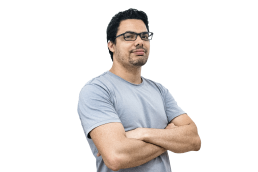
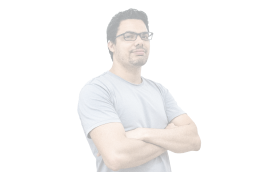
General adjustments

Changed region(s): [[0.2791, 0.0291, 0.8062, 1.0]]

diff --git a/src/components/header/index.tsx b/src/components/header/index.tsx
@@ -1,6 +1,4 @@
 import styles from "./header.module.css";
-import avatar from "../../app/assets/images/Epic1.png";
-import Image from "next/image";
 import BtnMenu from "../btnMenu";
 import { HeaderProps } from "@/types";
 
@@ -8,21 +6,11 @@ const Header = ({ toggleSidebar }: HeaderProps) => {
     return (
         <header className={styles.containerHeader}>
             <div className={styles.containermenu}><BtnMenu toggleSidebar={toggleSidebar} /></div>
-            <div className={styles.containerInfo}>
-                <div className={styles.containerText}>
-                    <h3 className={styles.textHi}>¡Hola!</h3>
-                    <h3 className={styles.textName}>Soy Johan Cortes</h3>
-                    <h4 className={styles.textSubTitle}>Desarrollador Web / App</h4>
-                    <h4 className={styles.textSubTitle}>Fullstack</h4>
-                </div>
-                <div className={styles.containerImage}>
-                    <Image
-                        src={avatar}
-                        alt="Photo perfil"
-                        title="Johan Cortes"
-                        className={styles.image}
-                    />
-                </div>
+            <div className={styles.containerText}>
+                <h3 className={styles.textHi}>¡Hola!</h3>
+                <h3 className={styles.textName}>Soy Johan Cortes</h3>
+                <h4 className={styles.textSubTitle}>Desarrollador Web / App</h4>
+                <h4 className={styles.textSubTitle}>Fullstack</h4>
             </div>
         </header>
     );

diff --git a/src/components/sidebarMenu/index.tsx b/src/components/sidebarMenu/index.tsx
@@ -9,30 +9,35 @@ const items = [
     {
         id: "001",
         icon: <FiClipboard size={40} color="#f17d3e" />,
-        title: "Acerca de mi"
+        title: "Acerca de mi",
+        route: "/"
     },
     {
         id: "002",
         icon: <FiCodesandbox size={40} color="#f17d3e" />,
-        title: "Proyectos"
+        title: "Proyectos",
+        route: "/projects"
     },
     {
         id: "003",
         icon: <FiMonitor size={40} color="#f17d3e" />,
-        title: "Habilidades"
+        title: "Habilidades",
+        route: "/skills"
     },
     {
         id: "004",
         icon: <GoBook size={40} color="#f17d3e" />,
-        title: "Estudios"
+        title: "Estudios",
+        route: "/studies"
     },
     {
         id: "005",
         icon: <FiPhoneCall size={40} color="#f17d3e" />,
-        title: "Contacto"
+        title: "Contacto",
+        route: "/contact"
     }
 ]
-const SidebarMenu = ({ open, toggleSidebar }: SidebarMenuProps) => {
+const SidebarMenu = ({ toggleSidebar }: SidebarMenuProps) => {
     return <div className={styles.container}>
         <div className={styles.headerMenu}>
             <div className={styles.textName}>

diff --git a/src/components/header/header.module.css b/src/components/header/header.module.css
@@ -5,6 +5,10 @@
   flex-direction: column;
   border-bottom: 1px solid var(--color-shadows-primary);
   border-radius: 5px;
+  background-image: url("../../app/assets/images/Epic1.png");
+  background-repeat: no-repeat;
+  background-position: 150%;
+  background-size: contain;
 }
 
 .containermenu {
@@ -12,40 +16,29 @@
   display: flex;
   justify-content: flex-end;
   align-items: flex-end;
-  padding-right: 1rem;
-}
-
-.containerInfo {
-  height: 10.21rem;
-  display: flex;
+  padding-right: 1.5rem;
 }
 
 .containerText {
   display: flex;
   flex-direction: column;
   min-width: 12.5rem;
-  padding:1rem 0 0 3rem;
+  padding: 1rem 0 0 3rem;
   gap: 0.3rem;
 }
 
 .textHi {
-  font-size: .9rem;
+  font-size: 1.1rem;
 }
 
 .textName {
-  font-size: 1.3rem;
+  font-size: 1.8rem;
   color: var(--color-text-third);
 }
 
 .textSubTitle {
-  font-size: .9rem;
+  font-size: 1.1rem;
   color: var(--color-text-secondary);
-}
-
-.containerImage {
-  display: flex;
-  justify-content: center;
-  align-items: center;
 }
 
 .image {

diff --git a/src/components/sidebarMenu/sidebarMenu.module.css b/src/components/sidebarMenu/sidebarMenu.module.css
@@ -7,12 +7,12 @@
 }
 
 .headerMenu {
-  height: 5rem;
+  height: 4.5rem;
   background-color: var(--bg-primary-background);
   display: flex;
   justify-content: space-between;
   align-items: center;
-  padding: 0 1rem 0 2rem;
+  padding: 0 1.2rem 0 2rem;
   color: var(--color-aux-primary);
 }
 
@@ -28,6 +28,7 @@
   justify-content: center;
   gap: 6rem;
   padding: 4rem 0 0 4rem;
+  color: var(--color-text-secondary);
 }
 
 .itemMenu {
@@ -37,5 +38,8 @@
   gap: 3rem;
   font-weight: 600;
   user-select: none;
+}
 
+.itemMenuActive {
+  color: #ffff45;
 }

diff --git a/src/components/btnMenu/btnMenu.module.css b/src/components/btnMenu/btnMenu.module.css
@@ -1,15 +1,16 @@
 .containerMenu {
-  width: 1rem;
-  height: 1rem;
+  width: 2rem;
+  height: 2rem;
   display: flex;
   flex-direction: column;
   gap: 0.2rem;
   cursor: pointer;
+  justify-content: flex-end;
 }
 
 .bar {
   width: 100%;
-  height: 2px;
+  height: 4px;
   border-radius: 5px;
   background-color: var(--color-aux-primary);
 }

diff --git a/src/app/css/globals.css b/src/app/css/globals.css
@@ -2,7 +2,7 @@
   --bg-primary-background: #1f1f20;
   --bg-secondary-background: #29282d;
   --color-text-primary: #fff;
-  --color-text-secondary: #cdcbcb;
+  --color-text-secondary: #acacac;
   --color-text-third: #f17d3e;
   --color-aux-primary: #f17d3e;
   --color-aux-secondary: #fff;

diff --git a/src/components/appContent/index.tsx b/src/components/appContent/index.tsx
@@ -16,7 +16,7 @@ const AppContent = ({ children }: RootLayoutProps) => {
             {children}
         </main>
         <Footer />
-        {open && <SidebarMenu open={open} toggleSidebar={toggleSidebar} />}
+        {open && <SidebarMenu toggleSidebar={toggleSidebar} />}
     </>
 }
 

diff --git a/src/types/index.ts b/src/types/index.ts
@@ -3,7 +3,6 @@ export type RootLayoutProps = {
 };
 
 export type SidebarMenuProps = {
-  open: boolean;
   toggleSidebar: () => void;
 };
 
